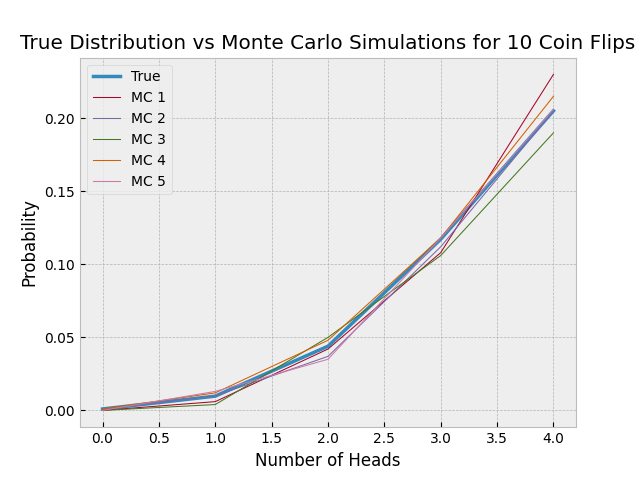
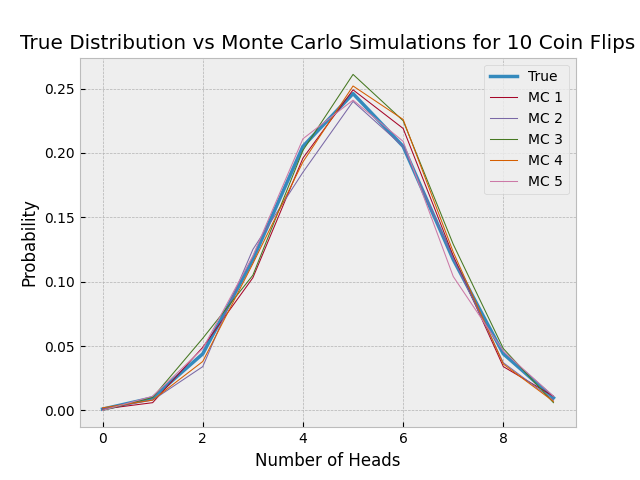
Added divergence calculations for different degrees of monte_carlo

diff --git a/coin_flipping/kl_divergence_for_monte_carlo_simulations.py b/coin_flipping/kl_divergence_for_monte_carlo_simulations.py
@@ -1,0 +1,28 @@
+import math
+from monte_carlo import monte_carlo
+from probability import probability
+
+def kl_divergence(p,q):
+    divergence = 0
+    for i in range(len(p)):
+        divergence += p[i]*(math.log(p[i]/q[i]))
+    return divergence
+
+def fix_zeroes(arr):
+    for i in range(len(arr)):
+        if arr[i] == 0:
+            arr[i] = 0.0001
+    return arr
+
+probability_results = [probability(x,10) for x in range(10)]
+monte_carlo_100 = fix_zeroes([monte_carlo(x,10,100) for x in range(10)])
+monte_carlo_1000 = fix_zeroes([monte_carlo(x,10,1000) for x in range(10)])
+monte_carlo_10000 = [monte_carlo(x,10,10000) for x in range(10)]
+print("\nDivergence with 100 trials: ")
+print("\n   "+str(kl_divergence(probability_results,monte_carlo_100)))
+print("\nDivergence with 1000 trials: ")
+print("\n   "+str(kl_divergence(probability_results,monte_carlo_1000)))
+print("\nDivergence with 1000 trials: ")
+print("\n   "+str(kl_divergence(probability_results,monte_carlo_10000)))
+
+# As the number of samples increases, the KL divergence gets closer to 0 because as the number of trials increases the monte_carlo estimation gets closer and closer the the actual probability.

diff --git a/coin_flipping/plot_distribution.py b/coin_flipping/plot_distribution.py
@@ -2,12 +2,12 @@ import matplotlib.pyplot as plt
 from monte_carlo import monte_carlo
 from probability import probability
 plt.style.use('bmh')
-x_coords = [0,1,2,3,4]
+x_coords = range(10)
 probablility_results = [probability(x,10) for x in x_coords]
 plt.plot(x_coords,probablility_results,linewidth = 2.5)
 # plt.plot([0,1,2,3,4],[0.1, 0.3, 0.5, 0.1, 0.1],linewidth=2.5)
 for _ in range(5):
-    plt.plot(x_coords,[monte_carlo(x,10) for x in x_coords],linewidth = 0.75)
+    plt.plot(x_coords,[monte_carlo(x,10,100) for x in x_coords],linewidth = 0.75)
 # plt.plot([0,1,2,3,4],[0.3, 0.1, 0.4, 0.2, 0.1],linewidth=0.75)
 # plt.plot([0,1,2,3,4],[0.2, 0.2, 0.3, 0.3, 0.2],linewidth=0.75)
 plt.legend(['True','MC 1','MC 2','MC 3','MC 4','MC 5'])

diff --git a/coin_flipping/monte_carlo.py b/coin_flipping/monte_carlo.py
@@ -1,10 +1,10 @@
 import random
 
-def monte_carlo(num_heads,num_flips):
+def monte_carlo(num_heads,num_flips,num_trials):
     with_num_heads = 0
-    for _ in range(1000):
+    for _ in range(num_trials):
         result = [random.choice(['H','T']) for _ in range(num_flips)]
         if result.count('H') == num_heads:
             with_num_heads+=1
-    return with_num_heads/1000
+    return with_num_heads/num_trials
 

diff --git a/coin_flipping/coin_flip_test.py b/coin_flipping/coin_flip_test.py
@@ -3,7 +3,7 @@ from monte_carlo import monte_carlo
 
 print("Monte Carlo Results:")
 for _ in range(3):
-    print("\n   "+str(monte_carlo(5,8)))
+    print("\n   "+str(monte_carlo(5,8,1000)))
 
 print("\nProbability:")
 print("\n   "+str(probability(5,8)))
